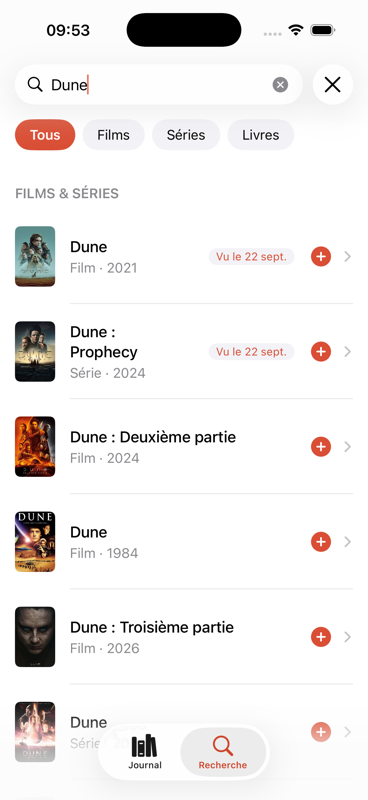
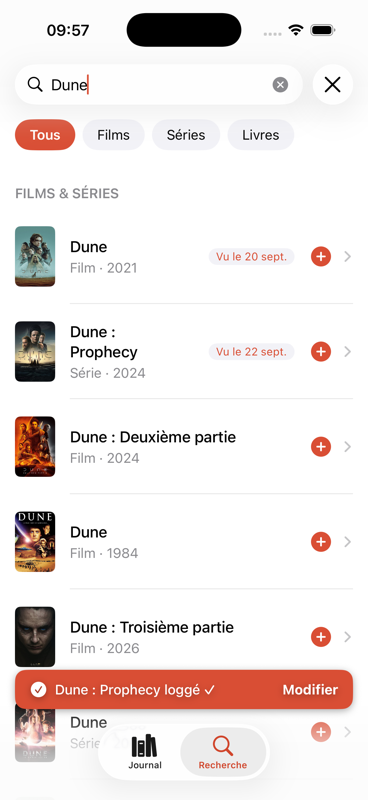
Garder le bandeau sur une ligne, titre coupé au milieu
Claude-Session: https://claude.ai/code/session_01D6XBM3nt5Q6R81SLFJatrv

diff --git a/Kulturstack/DesignSystem/Toast.swift b/Kulturstack/DesignSystem/Toast.swift
@@ -15,7 +15,8 @@ struct Toast: View {
             Image(systemName: isError ? "exclamationmark.circle.fill" : "checkmark.circle.fill")
             Text(text)
                 .font(.subheadline.weight(.medium))
-                .lineLimit(2)
+                .lineLimit(1)
+                .truncationMode(.middle)
             if let action {
                 Spacer(minLength: Spacing.s)
                 Button(action.title, action: action.handler)
@@ -35,6 +36,7 @@ struct Toast: View {
     VStack {
         Toast(text: "Dune loggé ✓")
         Toast(text: "Dune loggé ✓", action: .init(title: "Modifier") {})
+        Toast(text: "Everything Everywhere All at Once loggé ✓", action: .init(title: "Modifier") {})
         Toast(text: "Impossible de logger Dune", isError: true)
     }
 }
